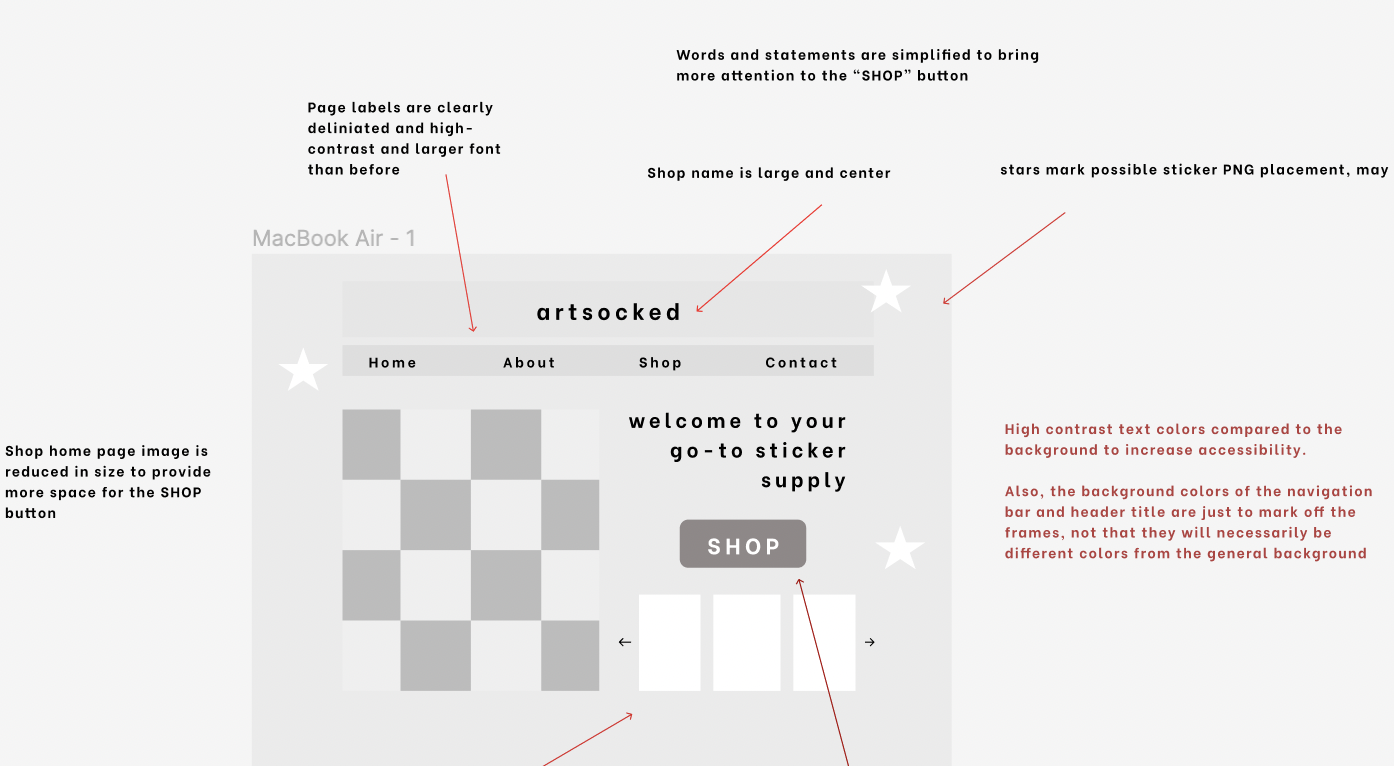
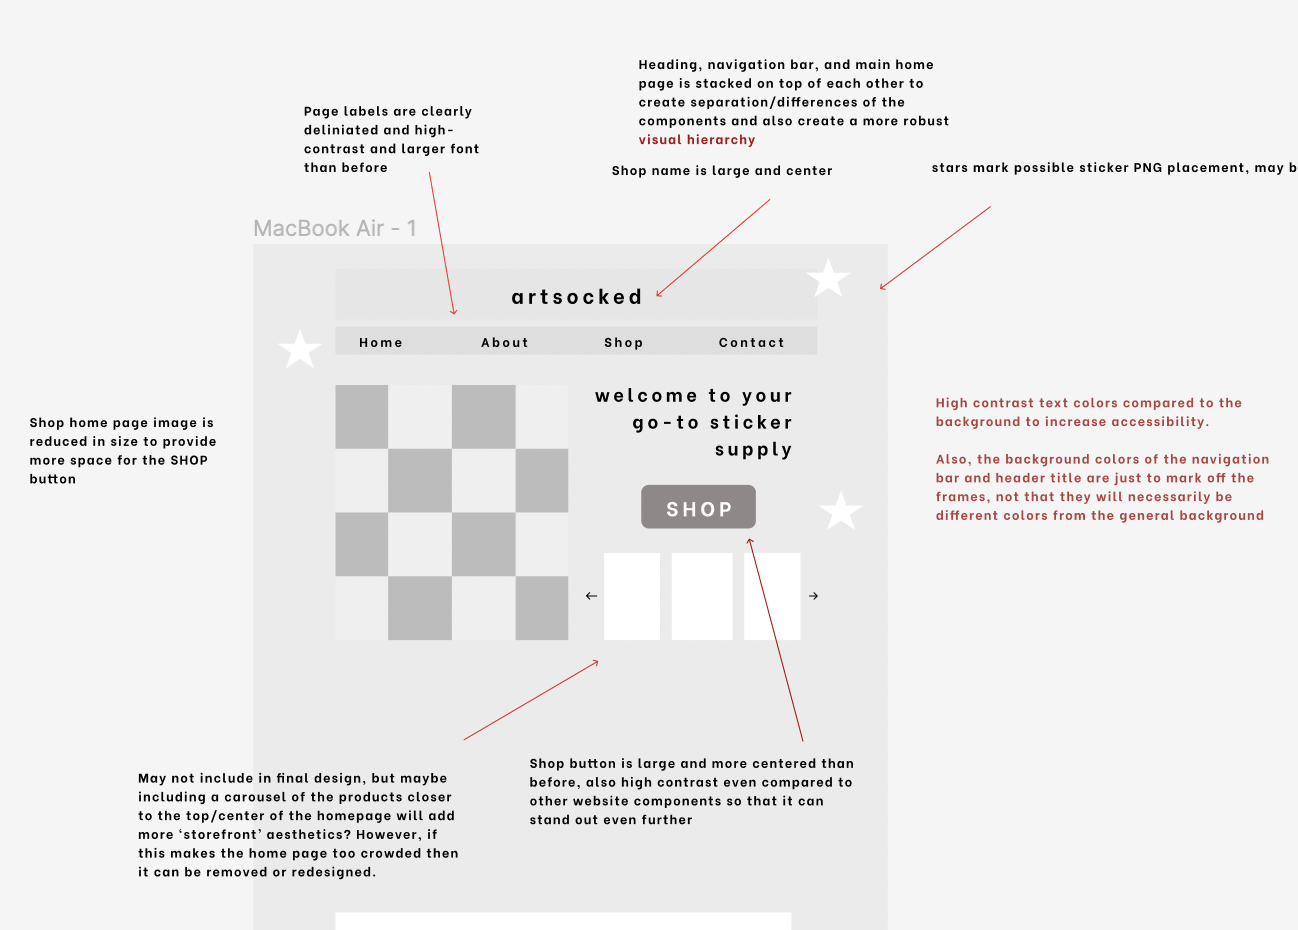
done

diff --git a/index.html b/index.html
@@ -39,6 +39,7 @@
             
             </ol>
             <h2>Accessibility</h2>
+            <p>The following observations were detected with WebAIM Wave</p>
             <ol>
                 <li>Multiple empty or nonexistant form labels for the "contact us" form</li>
                 <li>Several low-contrast errors across the home page</li>
@@ -55,36 +56,65 @@
         </section>
         <section id="lo-fi-mockup">
             <h2>Lo-Fi Mockup</h2>
-            <p>Website: Please visit the figma link for a comprehensive view of the lofi wireframes <a href="https://www.figma.com/file/9bfiOsRpXOS1EW4SiyT1xc/responsive-redesign-wireframe?type=design&node-id=0-1&mode=design">here</a></p>
+            <p>Please visit the figma link for a comprehensive view of the lofi wireframes <a href="https://www.figma.com/file/9bfiOsRpXOS1EW4SiyT1xc/responsive-redesign-wireframe?type=design&node-id=0-1&mode=design">here</a></p>
             <h3>Lo-Fi mockup for PC</h3>
             <img src="lofipc.png" width="600" height="400">
             <h3>Lo-Fi mockup for tablet</h3>
-            <img src="lofitablet.png" width="600" height="400">
+            <img src="lofitablet.png" width="500" height="400">
             <h3>Lo-Fi mockup for phone</h3>
-            <img src="lofiphone.png" width="600" height="400">
-            <p>Present a low-fidelity mockup of your website design.</p>
+            <img src="lofiphone.png" width="500" height="400">
+            <p>The text loads in immediately on this website. Moreover, all small text from the original website are adjusted to have higher weight and greater font</p>
         </section>
         <section id="hi-fi-mockup">
             <h2>Hi-Fi Mockup</h2>
             <h3>Style Guide</h3>
             <img src="style.png" width="500" height="500">
-            <p>Website: Please visit the figma link for a comprehensive view of the lofi wireframes <a href="https://www.figma.com/file/Z3P2G7y37vPueXkJJgoaqi/hi-fi?type=design&node-id=0-1&mode=design">here</a></p>
+            <h3>Please visit the figma link for a comprehensive view of the lofi wireframes <a href="https://www.figma.com/file/Z3P2G7y37vPueXkJJgoaqi/hi-fi?type=design&node-id=0-1&mode=design">here</a></h3>
             <h3>Hi-Fi mockup for PC</h3>
             <img src="pchifi.png" width="400" height="400">
             <h3>Hi-Fi mockup for tablet</h3>
             <img src="tablethifi.png" width="300" height="400">
             <h3>Hi-Fi mockup for phone</h3>
             <img src="phonehifi.png" width="200" height="400">
-            <p>Present a high-fidelity mockup of your website design.</p>
+            <p>Note: The PNG stickers scattered across the mock-ups are only a possibility and were not implemented in the final redesigned website
+                due to time constraints and implementation complexity. However, it is completely possible to implement this and I hope to revisit this component 
+                in revisions to this project. It would be fun to be able to drag the sticker PNGs around the website, as one would do with real stickers to decorate surfaces.
+            </p>
         </section>
         <section id="redesigned-website">
             <h2>Redesigned Website</h2>
-            <p>Website: Please visit the figma link for a comprehensive view of the lofi wireframes <a href="https://jchen1095.github.io/cs1300-responsiveredesign/index.html#">here</a></p>
-            <p>Showcase the redesigned version of your website, highlighting improvements.</p>
+            <p>Please visit the redesigned website <a href="https://jchen1095.github.io/cs1300-responsiveredesign/index.html#">here</a></p>
+            
+        </section>
+        <section id="important notes">
+            <h2>Important Notes</h2>
+            <ol>
+                <li>Following dimensions from the hi-fi Figma mockup, the redesigned website is not responsive at widths less than 390px as this is the width of the mobile website frame used</li>
+                <li>Running WebAIM Wave on the redesigned website lead to no contrast errors, which largely improves on the original website that had many low-contrast errors. Moreover, the contact form 
+                    is fully labeled, as well as the images. There are also no alerts for small text.
+                </li>
+                <li>The redesigned website is responsive to increasing font size in my browser (Google Chrome).</li>
+                <li>I had difficulty increasing the size of the hamburger menu as it is too small for my liking and increasing its size would help in improving accessibility.</li>
+                <li>In terms of aesthetics, I had to trade out the pastels of the original website for higher contrast colors. This decision will need to be evaluated by the company if this website is implemented as it is a major change in their appearance/style.</li>
+            </ol>
+            
         </section>
         <section id="conclusions">
             <h2>Conclusions</h2>
-            <p>Summarize your experience working on this project and any key takeaways.</p>
+            <p>This project was greatly challenging for both my coding and design skills, but at the same time incredibly rewarding. Below are my major takeaways:</p>
+            <ol>
+                <li>Visual Hierarchy and Gestalt Principles are crucial for creating and establishing an organized and effective structure for a website and its information</li>
+                <li>It is important to have multiple steps/layers in development, with different levels of complexity. Following the flow of creating sketches -> Lo-fi wireframes -> Hi-fi mockups before 
+                    beginning to code the website saved me a lot of time and work in the long run as general designs were already developed so transitioning these design ideas to code was made as 
+                    straightforward as possible.
+                </li>
+                <li>Accessibility design choices should be checked before website development. I did not check if my colors were high-contrast enough before developing the website, so I had to go back and find 
+                    new colors and implement these afterward.
+                </li>
+                <li>Thinking ahead during the design process on how to use containers to store website components is a helpful strategy to further
+                    enhance the transition from design to code later on. This can be done in Figma by creating different frames for different containers.
+                </li>
+            </ol>
         </section>
     </main>
 </body>
